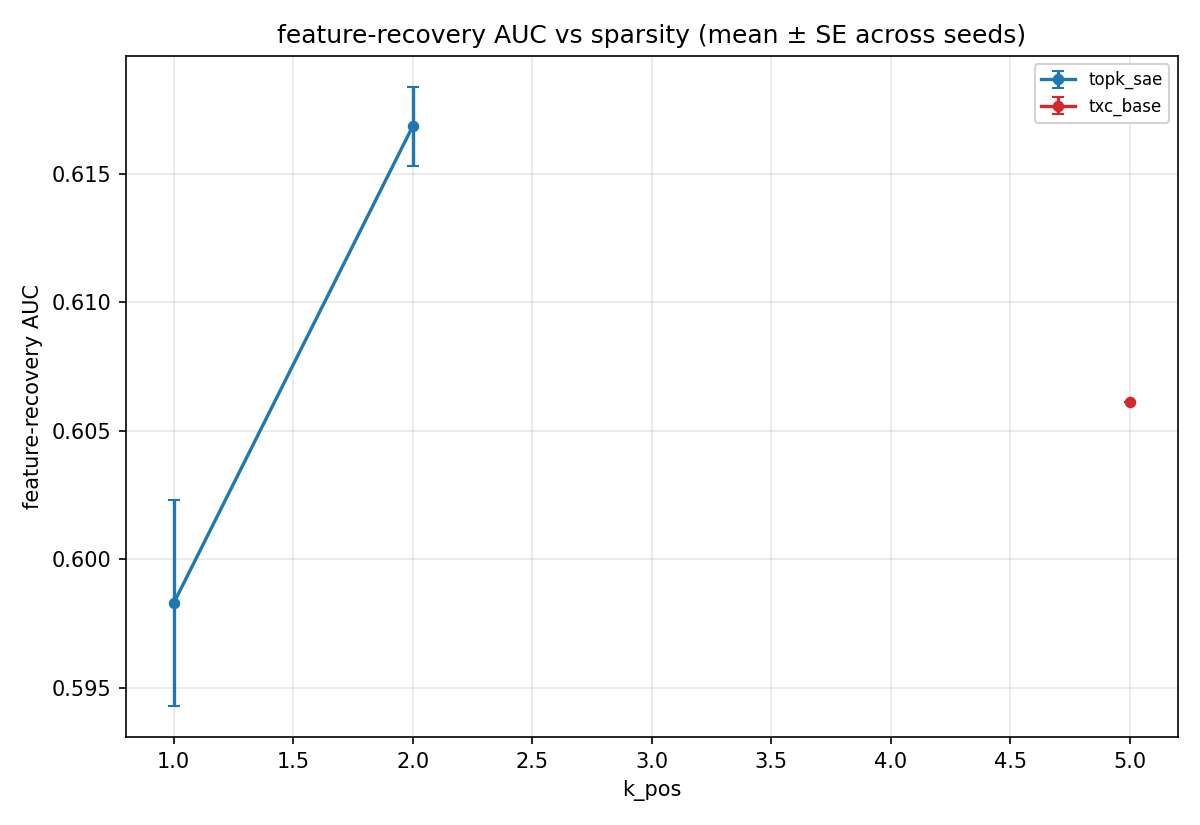
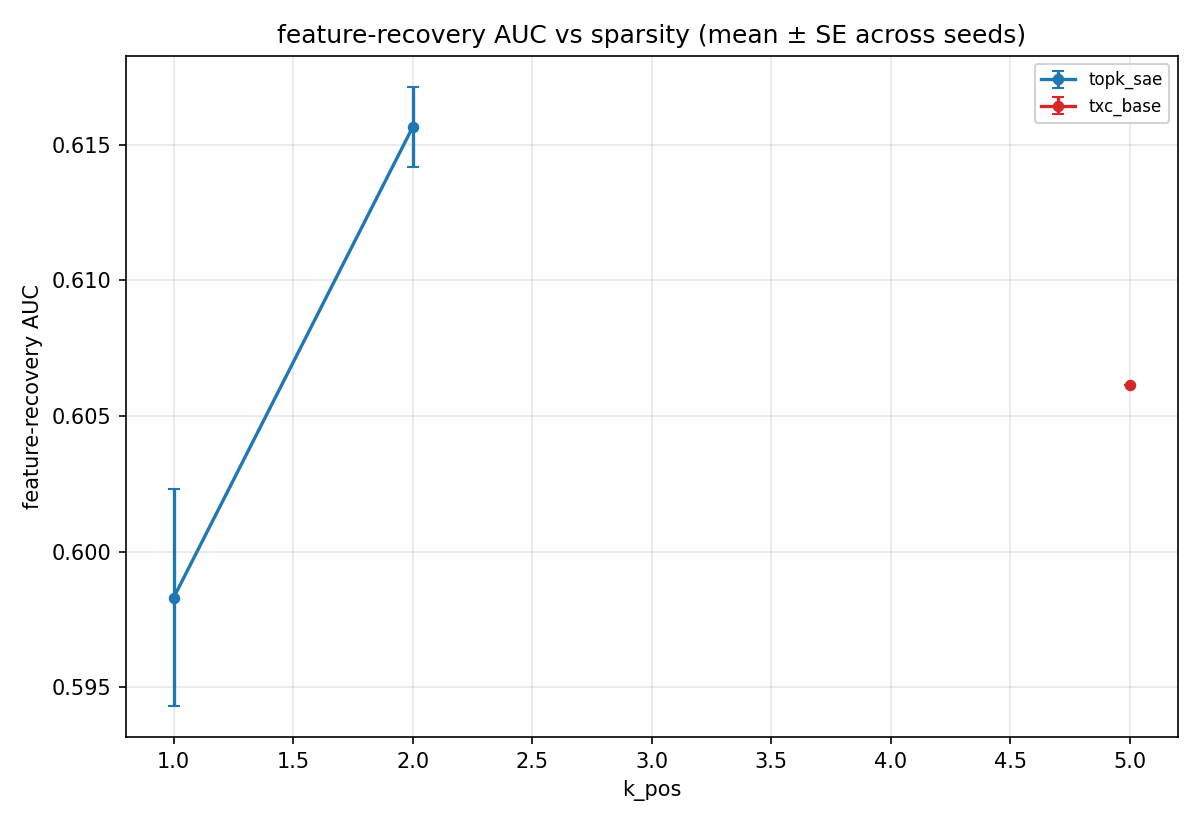
c1+c2 paper auto: refresh synthetic bundles (c1=, c2= leaderboard rows)
Auto-generated by purified/scripts/synthetic_paper_renderer.py.
Inputs: results/leaderboard.jsonl filtered to component in (c1,c2)
with eval_cfg._full_suite=true (the c{1,2}_synthetic_*_full driver flag).

diff --git a/purified/docs/components/c1_paper_results.md b/purified/docs/components/c1_paper_results.md
@@ -1,6 +1,6 @@
 # C1 Synthetic TopK — paper-ready results (auto-generated)
 
-_Last refreshed: 2026-05-06T04:25:08+00:00_
+_Last refreshed: 2026-05-06T04:40:12+00:00_
 
 ## Setup
 
@@ -9,13 +9,13 @@ _Last refreshed: 2026-05-06T04:25:08+00:00_
 - Metric: feature-recovery AUC against the 20 ground-truth orthogonal directions (per-feature max cosine ≥ τ, integrated over τ ∈ [0, 1]).
 - Driver: `experiments/c1_synthetic_topk_full/run.py` (routes through `temp_bench.data.toy_full.api`, isolated from agent_filler's `toy_markov_n20_d40` cache via distinct `act_cache_key`).
 
-Currently 6 cells across 2 (arch, T) configurations; seeds-per-cell range = [1, 2].
+Currently 7 cells across 2 (arch, T) configurations; seeds-per-cell range = [1, 3].
 
 ## Headline (peak AUC over k_pos)
 
 | arch | T | k\* | AUC (mean ± SE) | n seeds |
 |------|---|----|---------------------------|---------|
-| `topk_sae` | — | 2 | 0.617 ± 0.002 | 2 |
+| `topk_sae` | — | 2 | 0.616 ± 0.001 | 3 |
 | `txc_base` | — | 5 | 0.606 ± 0.000 | 1 |
 
 ## AUC vs k_pos
@@ -26,5 +26,5 @@ Currently 6 cells across 2 (arch, T) configurations; seeds-per-cell range = [1, 
 
 | arch (T) | k=1 | k=2 | k=5 |
 |---|---|---|---|
-| `topk_sae` | 0.598 | 0.617 | — |
+| `topk_sae` | 0.598 | 0.616 | — |
 | `txc_base` | — | — | 0.606 |

diff --git a/purified/docs/components/c2_paper_results.md b/purified/docs/components/c2_paper_results.md
@@ -1,6 +1,6 @@
 # C2 Synthetic Coupled — paper-ready results (auto-generated)
 
-_Last refreshed: 2026-05-06T04:25:08+00:00_
+_Last refreshed: 2026-05-06T04:40:12+00:00_
 
 ## Setup
 
